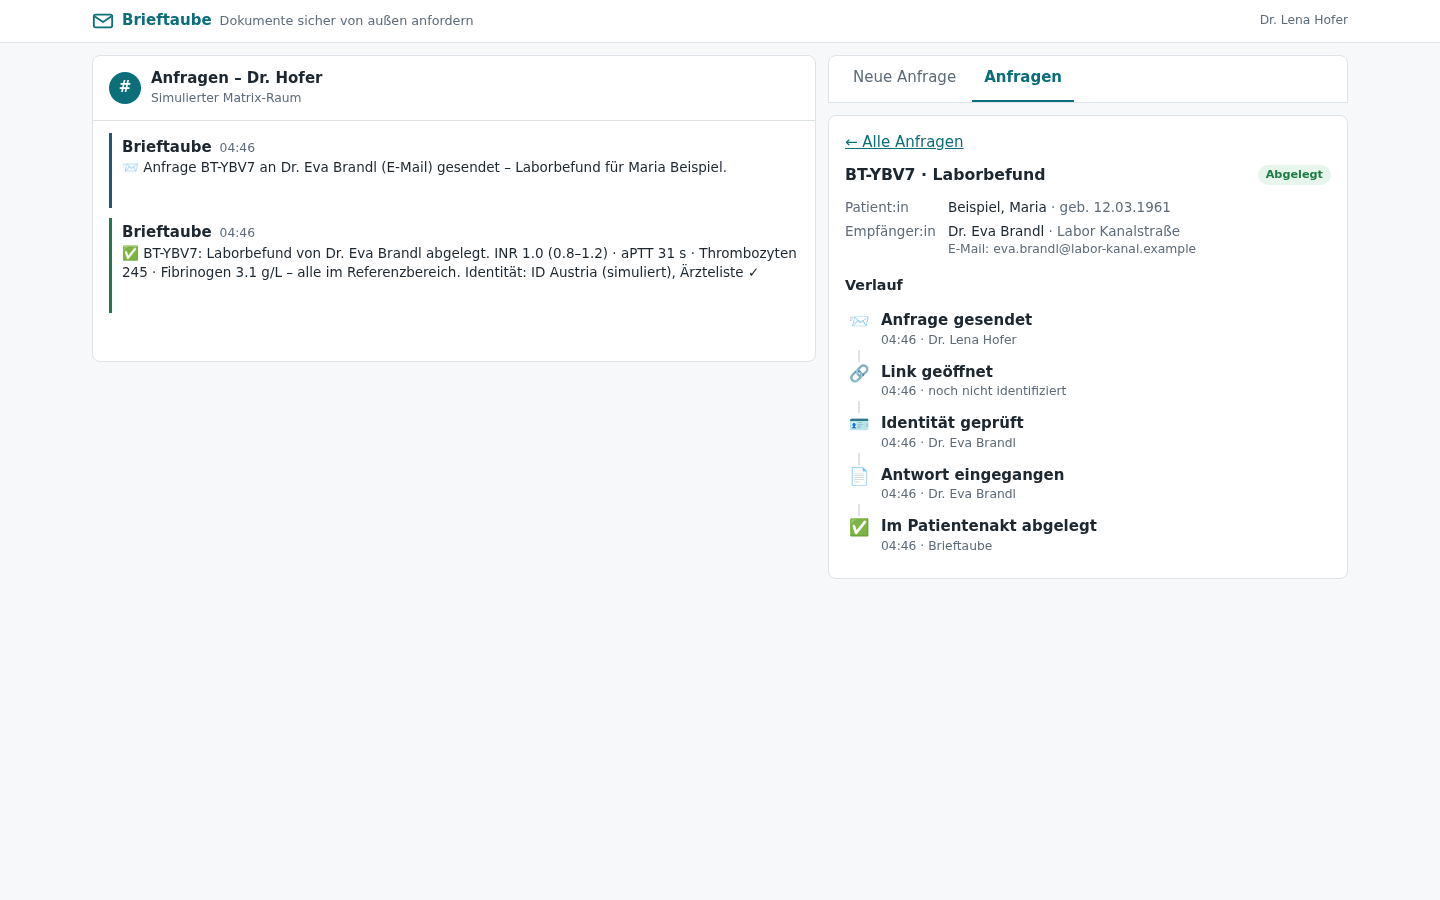
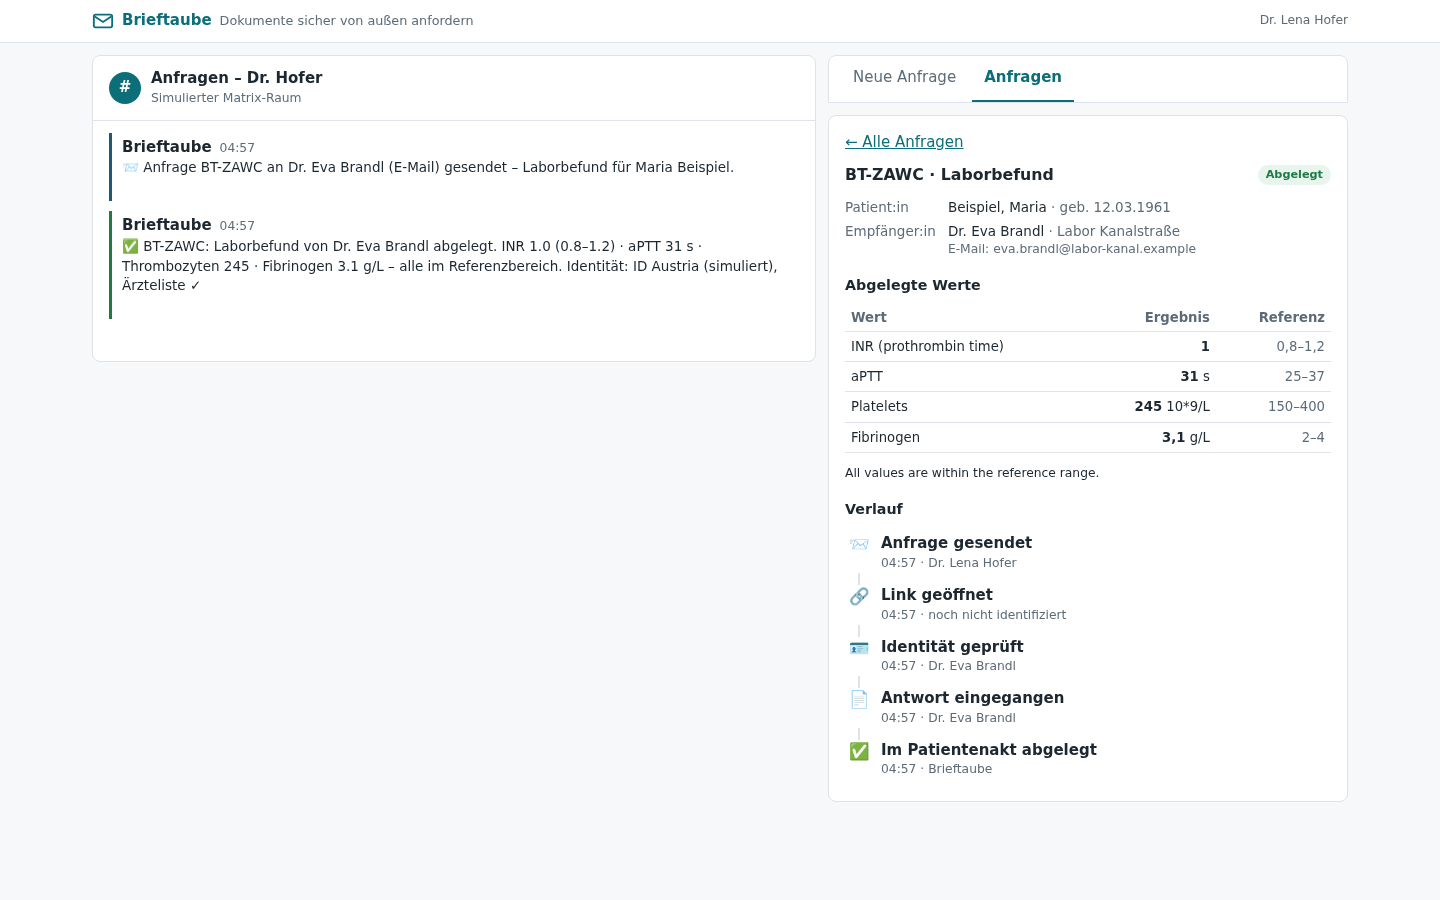
Detail summary: hide UCUM annotation units; refresh screenshots with filed lab values table

diff --git a/services/core/src/domain/answers.test.ts b/services/core/src/domain/answers.test.ts
@@ -43,7 +43,7 @@ describe("submitAnswer happy path (both scenario requests)", () => {
     expect(summary).toMatchObject({ kind: "lab-result" });
     if (summary?.kind !== "lab-result") return;
     expect(summary.values).toHaveLength(4);
-    expect(summary.values[0]).toMatchObject({ testName: expect.stringContaining("INR"), value: 1.0, low: 0.8, high: 1.2, interpretation: "N" });
+    expect(summary.values[0]).toMatchObject({ testName: expect.stringContaining("INR"), value: 1.0, unit: "", low: 0.8, high: 1.2, interpretation: "N" });
     await expect(service.submitAnswer(token, id, { ...maria, content: "x" }, {})).rejects.toMatchObject({ code: "already-answered" });
   });
 

diff --git a/services/core/src/domain/summary.ts b/services/core/src/domain/summary.ts
@@ -30,7 +30,8 @@ export async function filedSummary(fhir: FhirStore, r: DocumentRequest): Promise
       const v: Extract<FiledSummary, { kind: "lab-result" }>["values"][number] = {
         testName: o.code.text ?? o.code.coding?.[0]?.code ?? "",
         value: q.value,
-        unit: q.unit ?? "",
+        // UCUM annotations like "{INR}" are codes, not units a doctor reads.
+        unit: /^\{.*\}$/.test(q.unit ?? "") ? "" : (q.unit ?? ""),
         interpretation: code === "H" || code === "L" ? code : "N",
       };
       if (range?.low?.value !== undefined) v.low = range.low.value;
